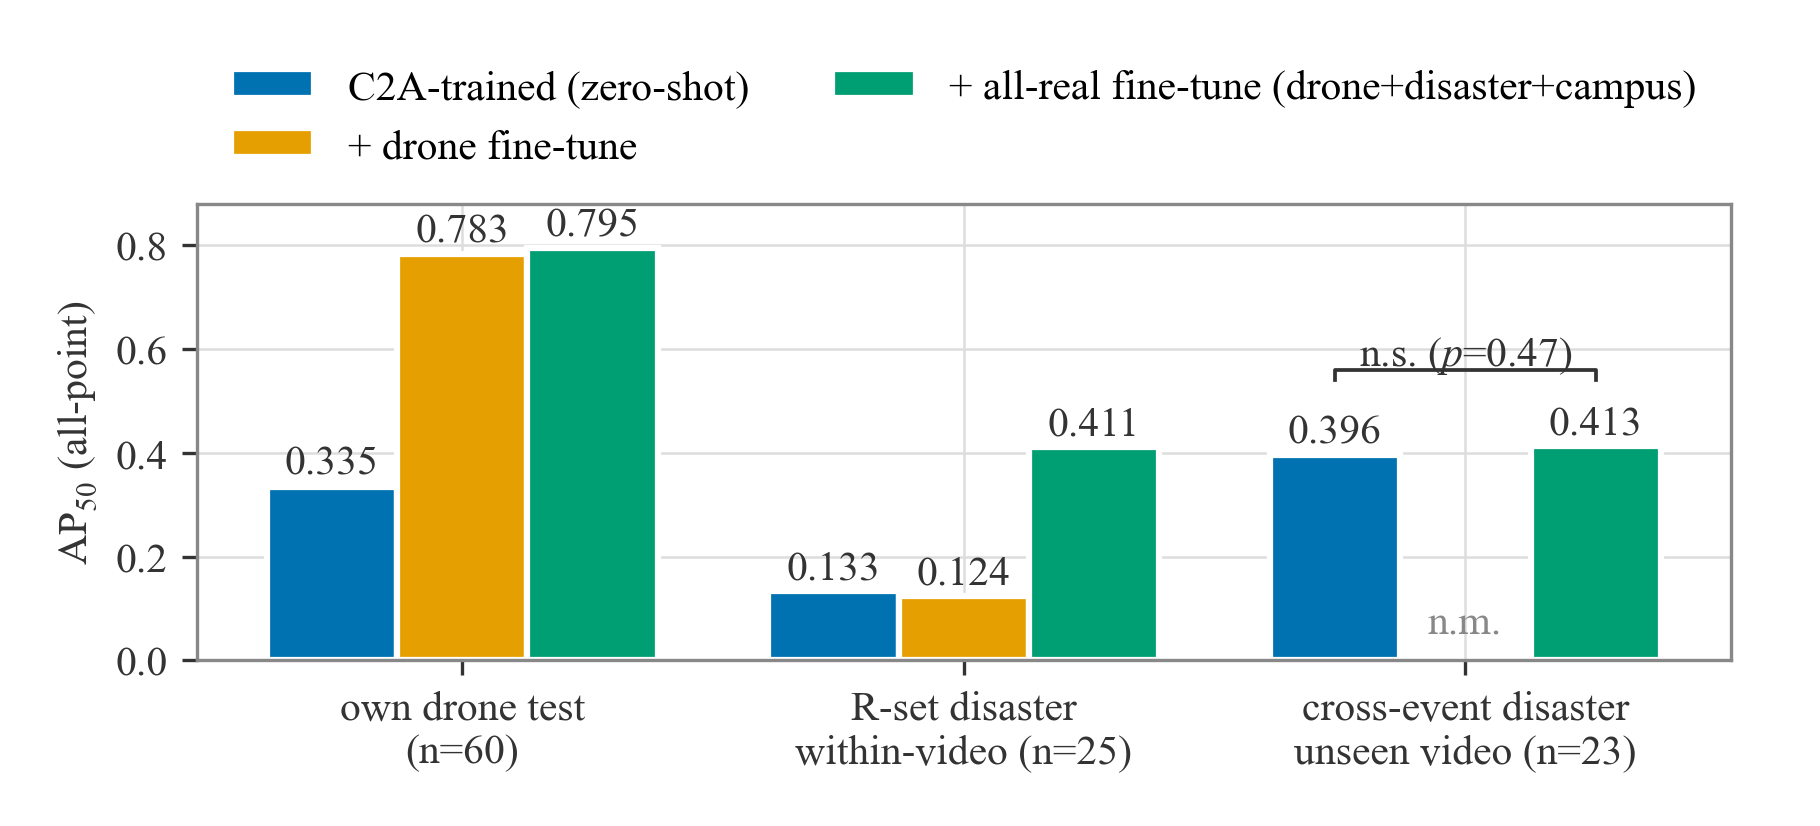
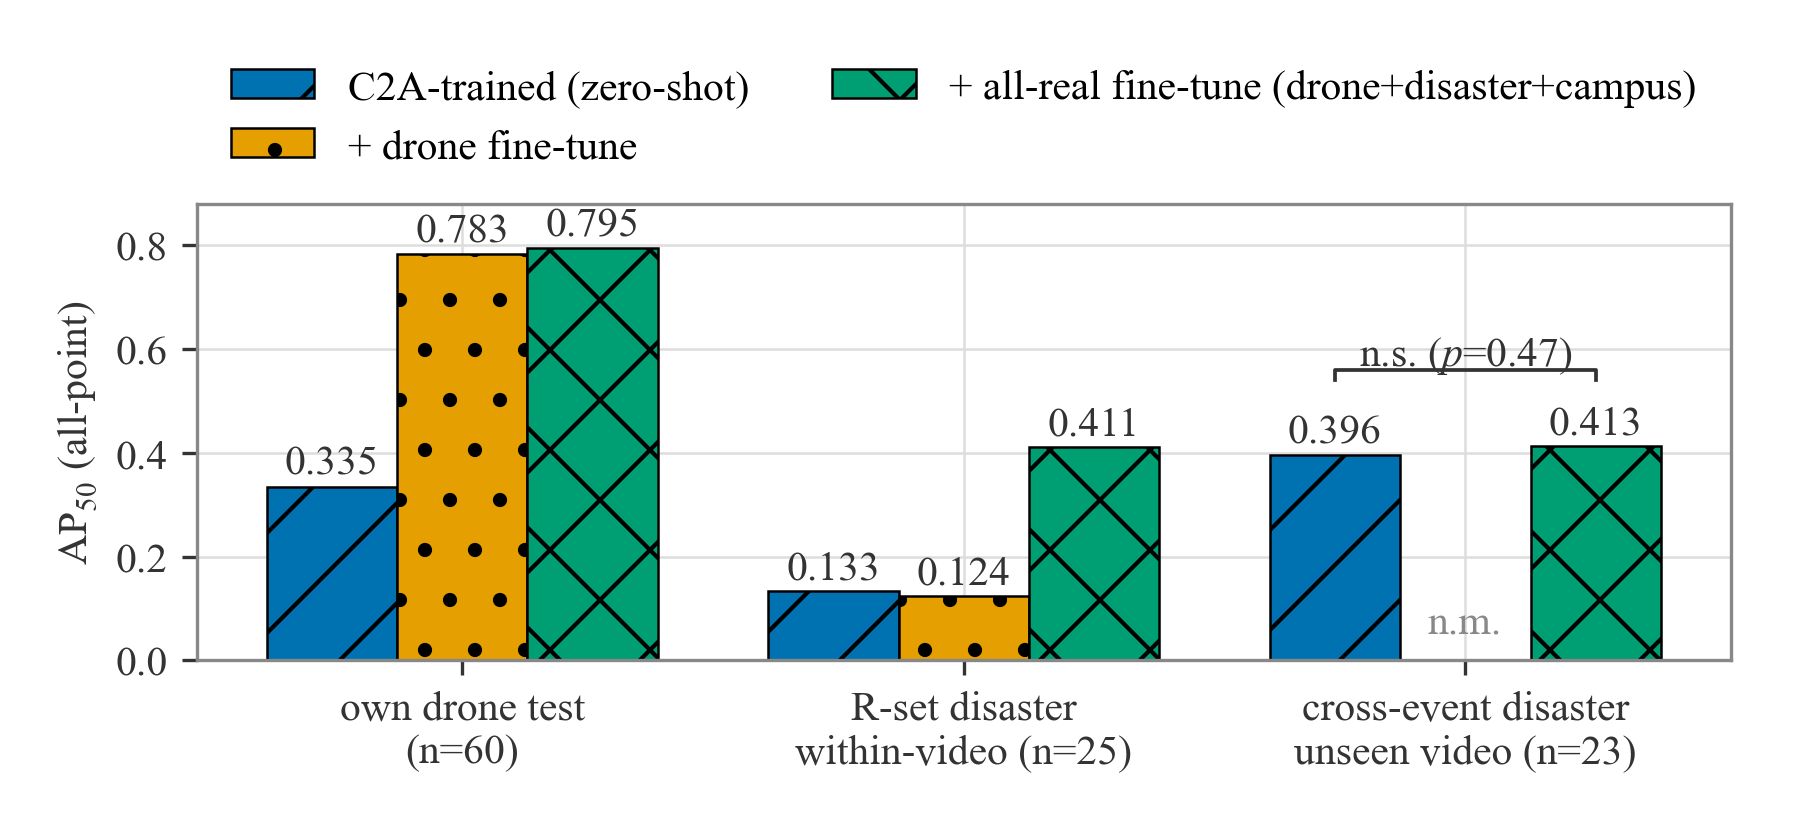
lap-4: colour and pattern fill on the sim-to-real bar chart
Supervisor asked for colour + pattern on all bar charts so the series
stay separable in greyscale print and for readers with colour-vision
deficiency. matplotlib draws hatching in the edge colour, so the edges
are now black at 0.6pt rather than white, and the three stages carry
distinct hatches (/, ., x). Figure regenerated from the script.

diff --git a/27-07-2026-Novelty-Lap-4/figures_new/make_partB_figs.py b/27-07-2026-Novelty-Lap-4/figures_new/make_partB_figs.py
@@ -128,19 +128,23 @@ plt.rcParams.update({"font.size": P2, "axes.labelsize": P2,
 fig, ax = plt.subplots(figsize=FS2)
 
 
-def bars(offset, vals, color, label):
+def bars(offset, vals, color, label, hatch=None):
+    # Colour AND pattern, so the three stages stay separable in greyscale and
+    # for readers with colour-vision deficiency. matplotlib draws the hatch in
+    # the edge colour, so the edge is dark rather than white.
     xs = [xi + offset for xi, v in zip(x, vals) if v is not None]
     vs = [v for v in vals if v is not None]
-    b = ax.bar(xs, vs, width=w, color=color, label=label, edgecolor="white", linewidth=1.5)
+    b = ax.bar(xs, vs, width=w, color=color, label=label, hatch=hatch,
+               edgecolor="black", linewidth=0.6)
     for xi, v in zip(xs, vs):
         ax.annotate(f"{v:.3f}", (xi, v), textcoords="offset points", xytext=(0, 3),
                     ha="center", fontsize=P2, color=INK)
     return b
 
 
-bars(-w, zero_shot, BLUE, "C2A-trained (zero-shot)")
-bars(0.0, drone_ft, ORANGE, "+ drone fine-tune")
-bars(w, all_real, GREEN, "+ all-real fine-tune (drone+disaster+campus)")
+bars(-w, zero_shot, BLUE, "C2A-trained (zero-shot)", hatch="/")
+bars(0.0, drone_ft, ORANGE, "+ drone fine-tune", hatch=".")
+bars(w, all_real, GREEN, "+ all-real fine-tune (drone+disaster+campus)", hatch="x")
 ax.annotate("n.m.", (2, 0.02), textcoords="offset points", xytext=(0, 4),
             ha="center", fontsize=P2, color=MUTED)          # drone-ft not measured on cross-event
 # n.s. bracket over the cross-event pair (base vs all-real): p=0.47
